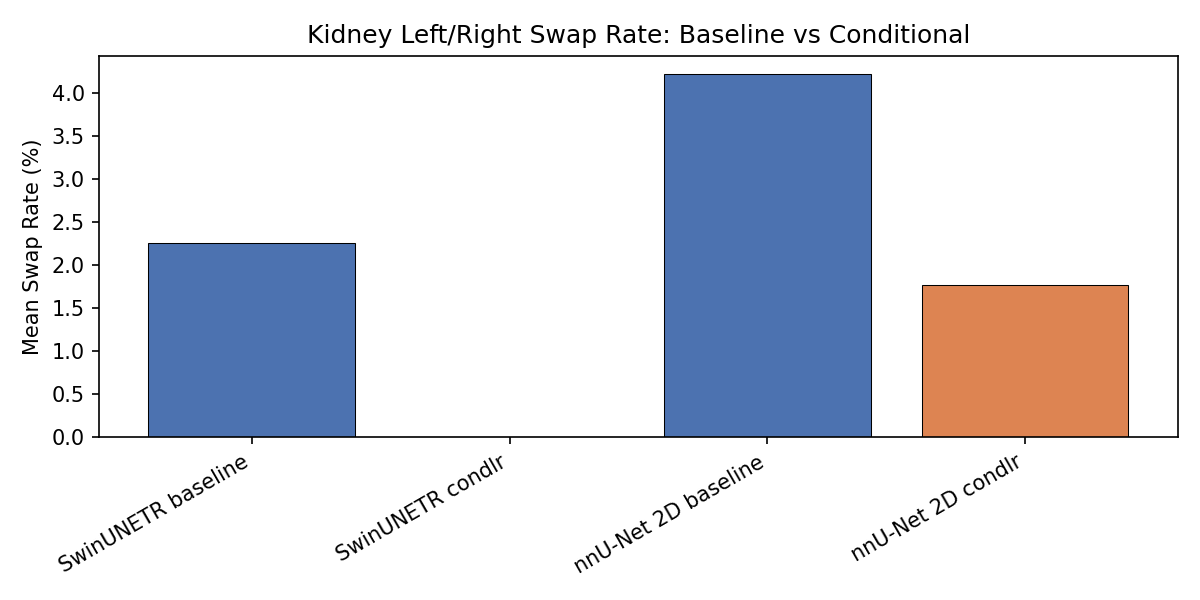
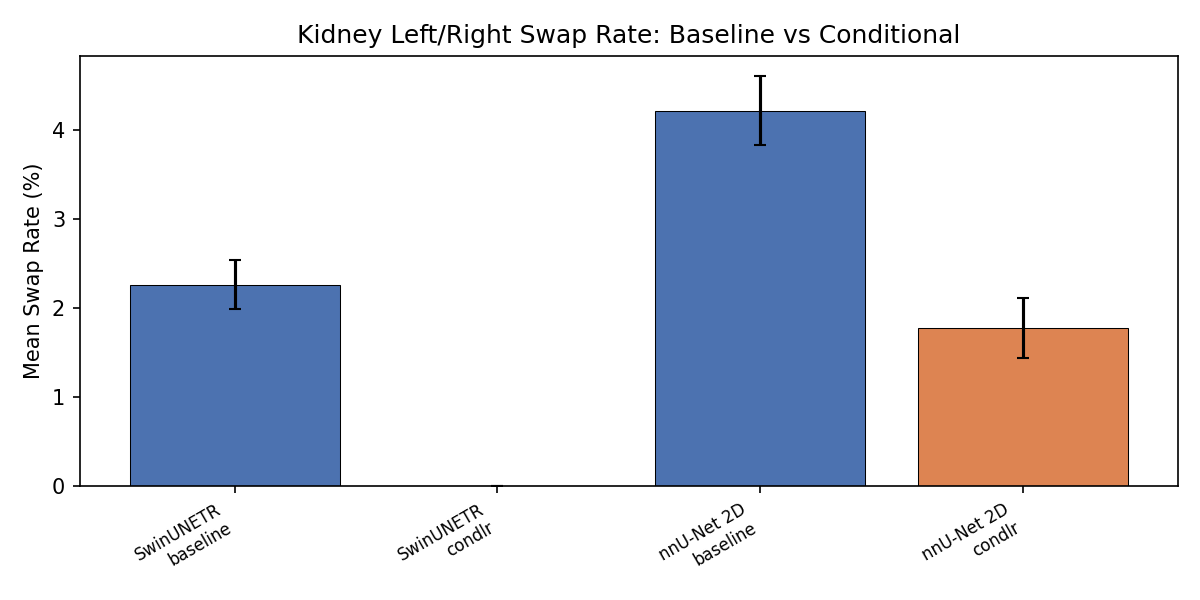
Fix figures: add error bars to all bar charts

diff --git a/tools/make_condlr_figures.py b/tools/make_condlr_figures.py
@@ -60,14 +60,13 @@ def plot_kidney_bar(data):
             colors = ["#4C72B0", "#DD8452", "#4C72B0", "#DD8452"]
             bars = ax.bar(range(4), vals, color=colors, edgecolor="black", linewidth=0.5)
 
-            if metric == "HD95":
-                # Add error bars for HD95 (std across cases)
-                errs = []
-                for net, b_df, c_df in [("SwinUNETR", swin_b, swin_c), ("2D nnUNet", d2_b, d2_c)]:
-                    b = b_df[b_df["class_id"] == class_id][metric]
-                    c = c_df[c_df["class_id"] == class_id][metric]
-                    errs.extend([b.std() / np.sqrt(len(b)), c.std() / np.sqrt(len(c))])
-                ax.errorbar(range(4), vals, yerr=errs, fmt="none", ecolor="black", capsize=3)
+            # Error bars (SEM across cases)
+            errs = []
+            for net, b_df, c_df in [("SwinUNETR", swin_b, swin_c), ("2D nnUNet", d2_b, d2_c)]:
+                b = b_df[b_df["class_id"] == class_id][metric]
+                c = c_df[c_df["class_id"] == class_id][metric]
+                errs.extend([b.std() / np.sqrt(len(b)), c.std() / np.sqrt(len(c))])
+            ax.errorbar(range(4), vals, yerr=errs, fmt="none", ecolor="black", capsize=3)
 
             ax.set_xticks(range(4))
             ax.set_xticklabels(labels, fontsize=8)
@@ -157,8 +156,13 @@ def plot_scatter_hd95(data):
 
 
 def plot_swap_rate():
-    """Bar chart of swap rate comparison."""
+    """Bar chart of swap rate comparison (per-seed means with SEM)."""
     fig, ax = plt.subplots(figsize=(8, 4))
+
+    labels_list = []
+    means = []
+    sems = []
+    colors_list = []
 
     for csv_name, net_label in [("swinunetr_kidney_swap.csv", "SwinUNETR"),
                                  ("nnunet_2d_kidney_swap.csv", "nnU-Net 2D")]:
@@ -166,17 +170,27 @@ def plot_swap_rate():
         if not path.exists():
             continue
         df = pd.read_csv(path)
-        summary = df.groupby("network").agg(
-            mean_swap=("swap_rate", "mean"),
-            cases_with_swap=("has_swap", "sum"),
-            total=("has_swap", "count"),
+        # Compute per-seed swap rate
+        per_seed = df.groupby(["network", "seed"]).agg(
+            swap_rate=("swap_rate", "mean"),
         ).reset_index()
 
-        for _, row in summary.iterrows():
-            arm = "condlr" if "condlr" in row["network"] else "baseline"
-            color = "#DD8452" if arm == "condlr" else "#4C72B0"
-            label = f"{net_label} {arm}"
-            ax.bar(label, row["mean_swap"] * 100, color=color, edgecolor="black", linewidth=0.5)
+        for arm, arm_label in [("baseline", "baseline"), ("condlr", "condlr")]:
+            net_name = [n for n in per_seed["network"].unique() if ("condlr" in n) == (arm == "condlr")]
+            if not net_name:
+                continue
+            sub = per_seed[per_seed["network"] == net_name[0]]
+            seed_means = sub["swap_rate"].values * 100
+            labels_list.append(f"{net_label}\n{arm}")
+            means.append(np.mean(seed_means))
+            sems.append(np.std(seed_means) / np.sqrt(len(seed_means)))
+            colors_list.append("#DD8452" if arm == "condlr" else "#4C72B0")
+
+    x = range(len(labels_list))
+    ax.bar(x, means, color=colors_list, edgecolor="black", linewidth=0.5)
+    ax.errorbar(x, means, yerr=sems, fmt="none", ecolor="black", capsize=3)
+    ax.set_xticks(list(x))
+    ax.set_xticklabels(labels_list, fontsize=8)
 
     ax.set_ylabel("Mean Swap Rate (%)")
     ax.set_title("Kidney Left/Right Swap Rate: Baseline vs Conditional")